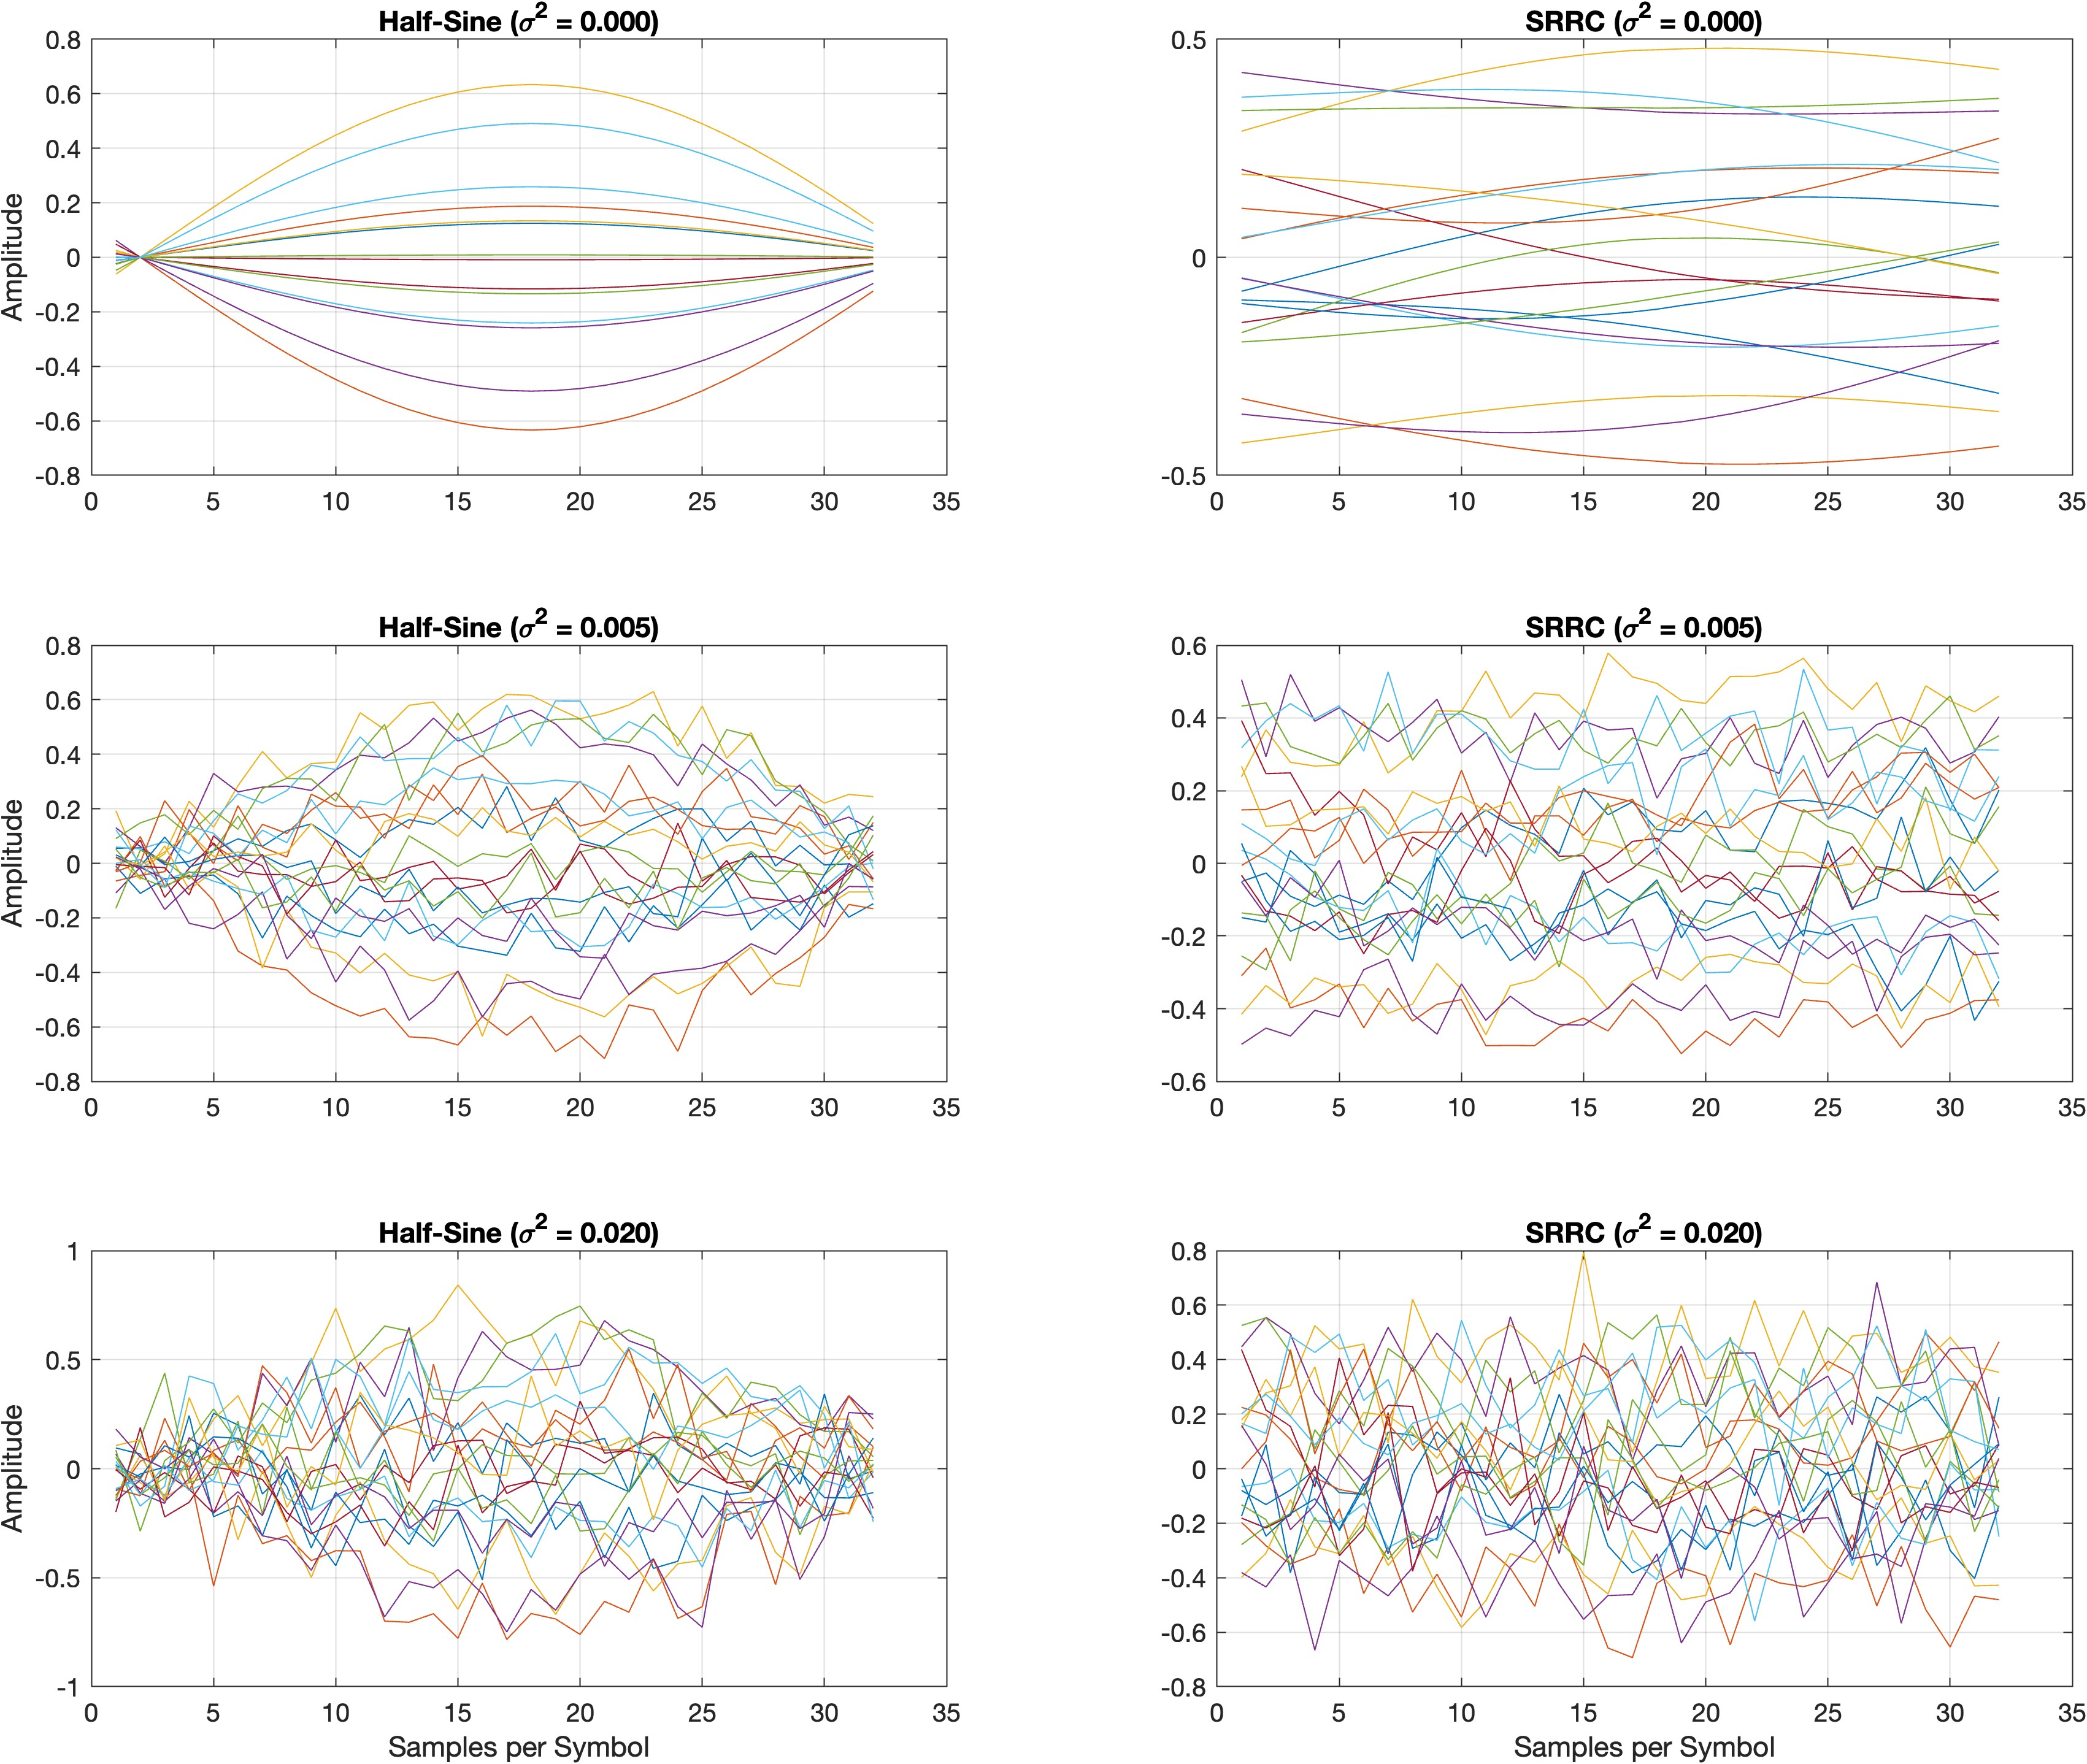
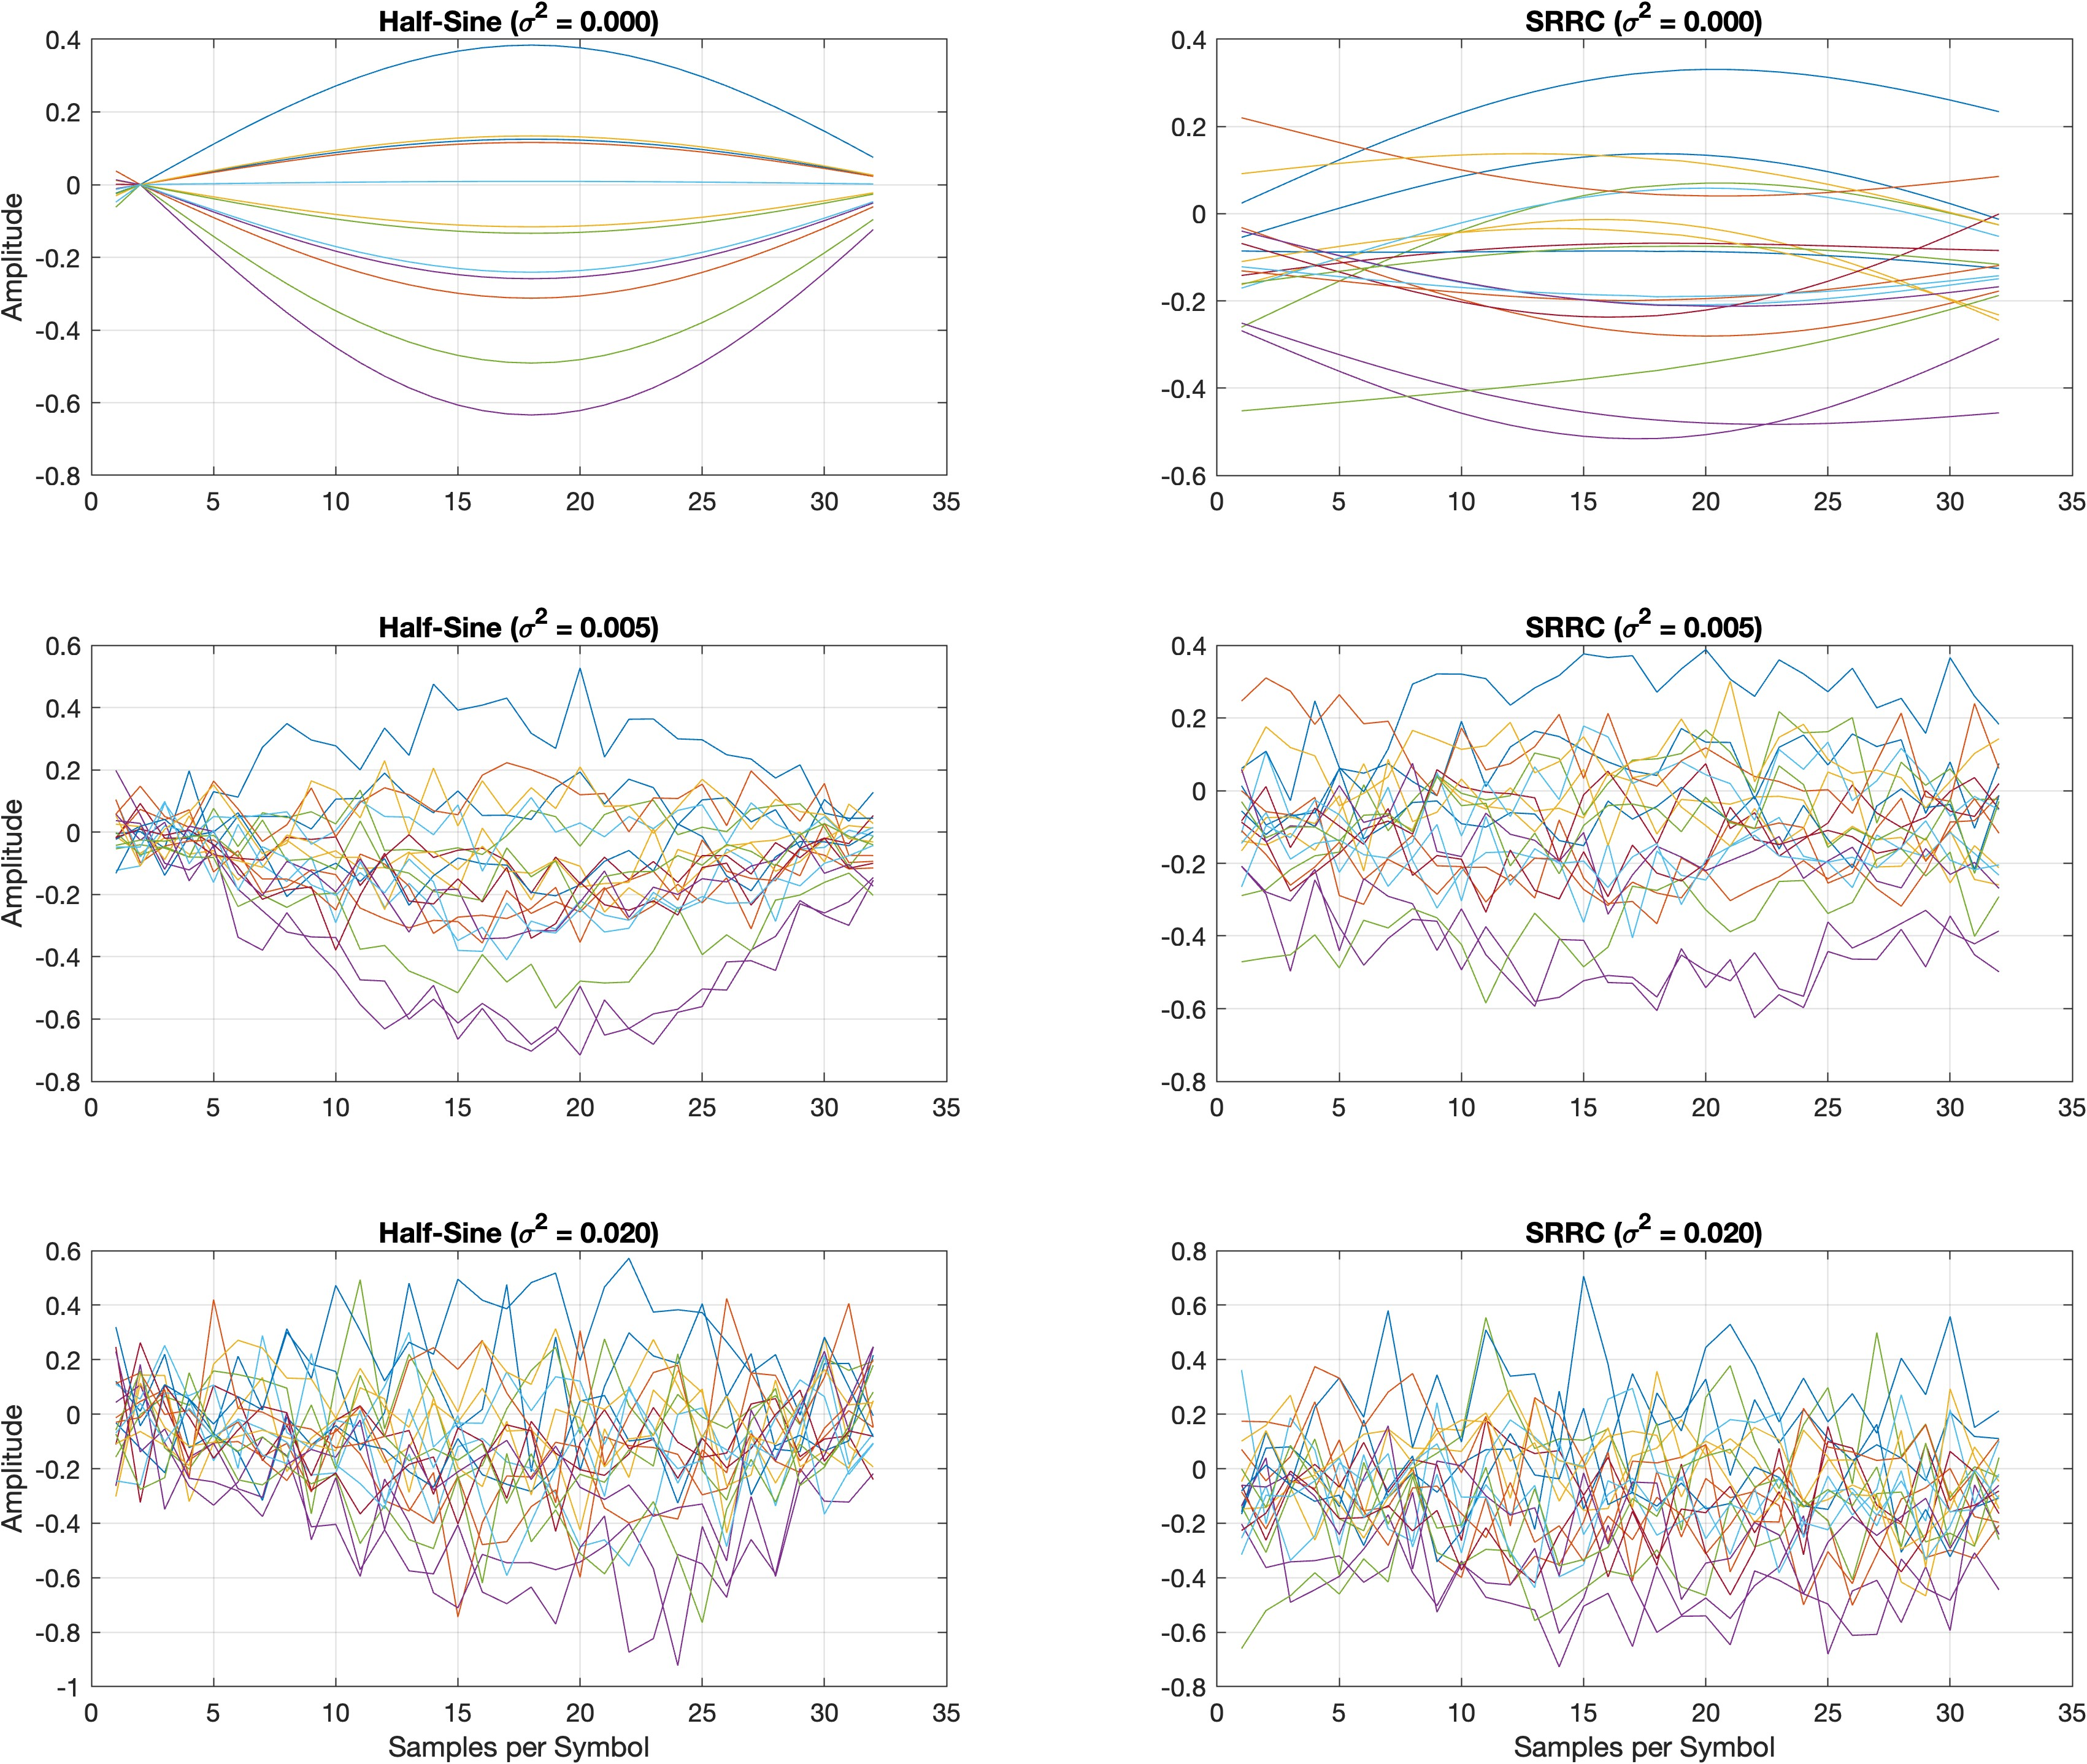
Jacob going wild

diff --git a/ee107project.m b/ee107project.m
@@ -485,10 +485,60 @@ xlabel('Time (s)', 'FontSize', 11);
 %EYe diagram 2 bit duration 
 eyediagram(matched_SRRC(offset_srrc:end), 2*sps, 2, 0);
 title('Matched Filter Output: SRRC(2 Bit Duration)', 'FontSize', 12, 'FontWeight', 'bold');
-
 ylabel('Amplitude', 'FontSize', 11);
 xlabel('Time (s)', 'FontSize', 11);
 
-title(sprintf('Matched Filter Output: SRRC (1 Bit Duration) (\\alpha = %.1f, K = %d)', alpha, k), 'FontSize', 12, 'FontWeight', 'bold'); 
+%------------------ QUESTION 10 & 11: Zero-Forcing Equalizer Solutions ------------------
 
-%------------------ QUESTION 10: Equalizer Solutions ------------------
+%Q10:
+% IMplementing a Zero-Forcing Equalizer
+
+fs = sps / T; 
+b_zf = 1;
+a_zf = h_upsampled;
+
+% Impulse Response for plotting
+% Apply the filter to a unit impulse delta[n]
+impulse = [1; zeros(10000, 1)]; % Use ~10,000 samples for the IIR tail 
+q_zf_n = filter(b_zf, a_zf, impulse);
+
+[Q_zf, f_hz] = freqz(b_zf, a_zf, 2^14, fs); 
+
+%% Plotting Q10
+figure('Name', 'Q10: ZF Equalizer Responses', 'Position', [200, 200, 800, 600]);
+subplot(2,1,1);
+plot(f_hz, 20*log10(abs(Q_zf)), 'LineWidth', 1.5);
+grid on;
+title('Q10: ZF Equalizer Frequency Response (Q_{ZF})', 'FontSize', 12, 'FontWeight', 'bold');
+xlabel('Frequency (Hz)');
+ylabel('Magnitude (dB)'); 
+xlim([0 fs/2]); % Plot up to the Nyquist frequency
+
+% q_zf_n is the impulse response
+subplot(2,1,2);
+plot(0:length(q_zf_n)-1, q_zf_n, 'LineWidth', 1.5);
+grid on;
+title('Q10: ZF Equalizer Impulse Response (q[n])', 'FontSize', 12, 'FontWeight', 'bold');
+xlabel('Sample Index');
+ylabel('Amplitude');
+
+%Q11:
+%Eye diagram for both pulse shapes after ZF equalization with no noise, with medium noise, and with heavy noise.
+
+
+% % We use the original h_taps (NOT upsampled) as per the implementation note
+% H = fft(h_taps, 1024); % Frequency response of the channel
+
+
+
+% H_inv = 1 ./ H; % Invert the frequency response for zero-forcing
+% H_inv(isinf(H_inv)) = 0; % Handle any infinite values due to zeros
+% h_zf = ifft(H_inv); % Get the time-domain impulse response of the ZF equalizer
+% h_zf = h_zf / norm(h_zf); % Normalize to unit energy
+
+% % Convolve the channel output with the ZF equalizer
+% zf_output_half_sine = conv(rx_hs, h_zf);
+% zf_output_srrc = conv(rx_srrc, h_zf);  
+
+
+

diff --git a/README.md b/README.md
@@ -179,12 +179,33 @@ And for the SRRC recieved signal:
 
 ![](./imgs/Q8/matched_out_SRRC.jpg)
 
-
-
+The impulse and frequency reeponses in Q1 represet the ideal pulse shapes and their spectrums. Q8 plots, however, correspond to the matched filter output. So the time domain signals are noisy and don't look anyything like the original pulses. The frequency response graphs are also noisy and have some fluctuations due to the random data and noise. However, the spectral shape is still a lowpass and the SRRC signal is still bandlimited than the half since.
 
 #### Q9: Matched Filter Output - Eye Diagrams for 1 & 2 Bit Durations
 
+Half Sine Matched Filter Output Eye Diagrams: 
+
+1 Bit:
+![](./imgs/Q9/HS_eye_1.jpg)
+
+
+2 Bits:
+![](./imgs/Q9/HS_eye_2.jpg)
+
+For the half sine, we want to sample at .5 seconds. (Max Eye Opening)
+
+SRRC Matched Filter Output Eye Diagrams:
+
+1 Bit: 
+![](./imgs/Q9/SRRC_eye_1.jpg)
+
+2 Bits: 
+![](./imgs/Q9/SRRC_eye_2.jpg)
+
+For the SRRC we want to sample at 0.3 seconds. (Max Eye Opening)
 
 #### Q10 & 11: The Zero-Forcing (ZF) Equalizer
+
+We will implement the zero-forcing filter by computing the frequency response of the channel and then create an inverse filter by taking the reciprocal of the channel response in the frequency domain. Then its converted back to the time domain to get the impulse response of the ZF equalizer. The signal is convolved with the equalizer which cancels out channel distortion and ISI.
 
 #### Q12 & 13: The MMSE Equalizer 